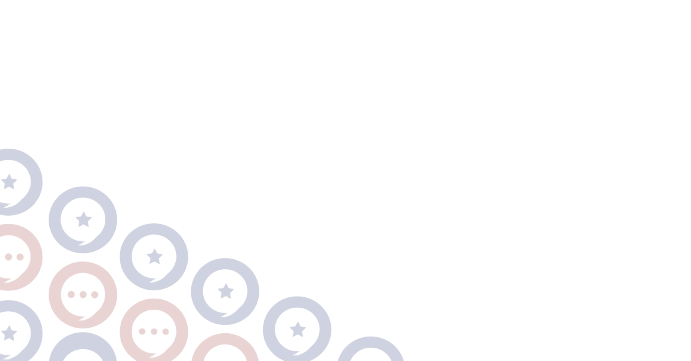
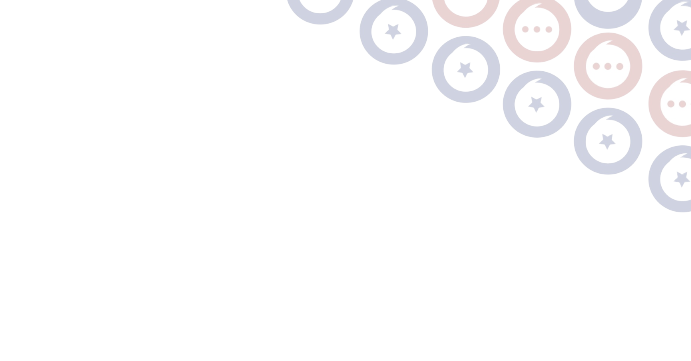
Change from latest revision

Changed region(s): [[0.3951, 0.0, 1.0, 0.6094], [0.0, 0.3961, 0.6078, 1.0]]

diff --git a/src/Screens/Home/Home.container.js b/src/Screens/Home/Home.container.js
@@ -30,7 +30,7 @@ const HomeContainer = () => {
       <WelcomeContainer>
         <Container>
           <WelcomeSection>
-            <Row className="mt-5 mb-3">
+            <Row className="pt-5 mb-3">
               <Col xl={12} md={12} sm={12}>
                 <CustomMarginToParent>
                   <div className="t_four p_absoulte">
@@ -73,10 +73,10 @@ const HomeContainer = () => {
                 </CustomMarginToParent>
               </Col>
             </Row>
+            <WhyChooseUsContainer />
           </WelcomeSection>
         </Container>
       </WelcomeContainer>
-      <WhyChooseUsContainer />
       <MainPrograms />
       <TestimonialsContainer />
       <OurClientsContainer />

diff --git a/src/Screens/Home/Contact/Contact.container.js b/src/Screens/Home/Contact/Contact.container.js
@@ -8,6 +8,7 @@ import {
   SectionTitle
 } from './Contact.styled';
 import IconContainer from '../../../Components/Icon/Icon.container';
+import { PrimaryColor } from '../../../Assets/colorPalette';
 
 const ContactContainer = () => {
   const { t } = useTranslation();
@@ -22,7 +23,7 @@ const ContactContainer = () => {
         <CenterDiv className="d-flex justify-content-center ">
           <IconContainer icon="bi bi-whatsapp" color="#25d366" />
           <div className="m-1" />
-          {/*<IconContainer icon="bi bi-envelope" color={PrimaryColor} />*/}
+          <IconContainer icon="bi bi-envelope" color={PrimaryColor} />
         </CenterDiv>
       </ContainerStyled>
     </>

diff --git a/src/Screens/Home/Home.styled.js b/src/Screens/Home/Home.styled.js
@@ -45,9 +45,12 @@ export const WelcomeSection = styled.div`
 `;
 
 export const WelcomeContainer = styled.div`
+  margin-top: -7.7vw;
+  padding-top: 7.7vw;
   background-image: url(${BannerHomeTransparent});
   background-repeat: no-repeat;
-  background-size: contain;
+  background-size: 80%;
+  background-position: right 0 top 0;
 
   @media (min-width: 1024px) {
     min-height: 602px;
@@ -84,7 +87,7 @@ export const WelcomeContainer = styled.div`
 `;
 
 export const CustomMarginToParent = styled.div`
-  margin-top: 3rem !important;
+  //margin-top: 3rem !important;
   margin-right: 4rem;
   margin-left: 4rem;
 

diff --git a/src/Screens/Home/Contact/Contact.styled.js b/src/Screens/Home/Contact/Contact.styled.js
@@ -1,6 +1,6 @@
 import styled from 'styled-components';
 import { PrimaryColor, SecondaryColor } from '../../../Assets/colorPalette';
-import BannerHomeTransparent from '../../../Assets/Images/bannerhome-transparent.png';
+import BannerHomeTransparent from '../../../Assets/Images/bannerhome-transparent-copy.png';
 
 export const ContainerStyled = styled.div`
   background-color: white;

diff --git a/src/Screens/Home/WhyChooseUs/WhyChooseUs.container.js b/src/Screens/Home/WhyChooseUs/WhyChooseUs.container.js
@@ -8,7 +8,6 @@ import { useTranslation } from 'react-i18next';
 const ContainerSection = styled.div`
   padding: 2vw 4vw;
   min-height: 35rem;
-  background-color: #f5f5f5;
 `;
 
 const SectionTitle = styled.h4`
